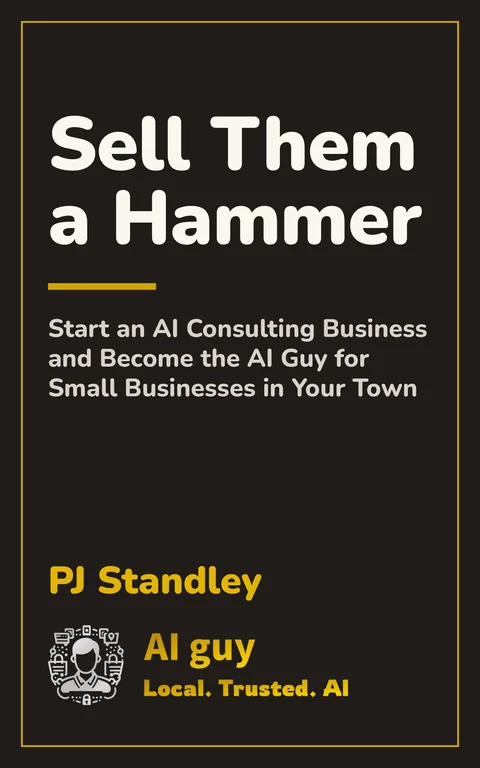
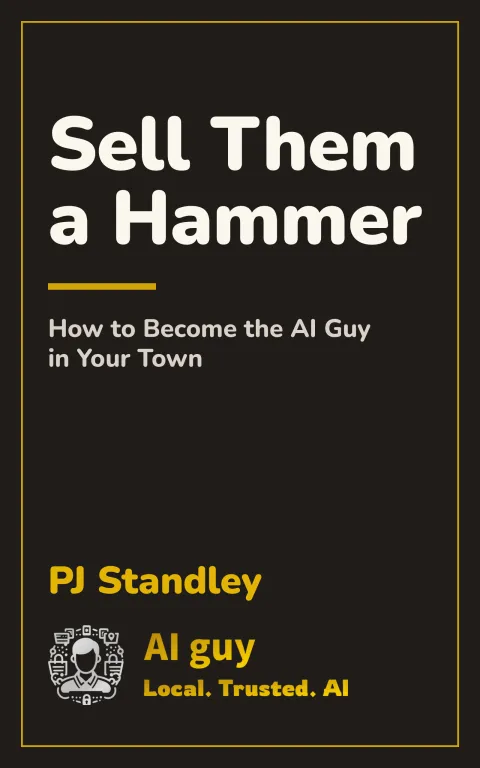
Book sale page: new subtitle (How to Become the AI Guy in Your Town) and refreshed cover images

Changed region(s): [[0.0938, 0.4062, 0.9062, 0.5312]]

diff --git a/sell-them-a-hammer/index.html b/sell-them-a-hammer/index.html
@@ -4,17 +4,17 @@
     <meta charset="utf-8">
     <meta name="viewport" content="width=device-width, initial-scale=1">
     <title>Sell Them a Hammer by PJ Standley | AIssisted Consulting</title>
-    <meta name="description" content="Sell Them a Hammer: Start an AI Consulting Business and Become the AI Guy for Small Businesses in Your Town. Digital book (PDF + EPUB) and 10 editable templates, $29.">
+    <meta name="description" content="Sell Them a Hammer: How to Become the AI Guy in Your Town. Digital book (PDF + EPUB) and 10 editable templates, $29.">
     <meta name="theme-color" content="#06080f">
     <link rel="canonical" href="https://aissistedconsulting.com/sell-them-a-hammer/">
     <meta property="og:type" content="book">
     <meta property="og:title" content="Sell Them a Hammer by PJ Standley | AIssisted Consulting">
-    <meta property="og:description" content="Sell Them a Hammer: Start an AI Consulting Business and Become the AI Guy for Small Businesses in Your Town. Digital book (PDF + EPUB) and 10 editable templates, $29.">
+    <meta property="og:description" content="Sell Them a Hammer: How to Become the AI Guy in Your Town. Digital book (PDF + EPUB) and 10 editable templates, $29.">
     <meta property="og:url" content="https://aissistedconsulting.com/sell-them-a-hammer/">
     <meta property="og:image" content="https://aissistedconsulting.com/assets/book/sell-them-a-hammer-cover-960.jpg">
     <meta name="twitter:card" content="summary_large_image">
     <meta name="twitter:title" content="Sell Them a Hammer by PJ Standley | AIssisted Consulting">
-    <meta name="twitter:description" content="Sell Them a Hammer: Start an AI Consulting Business and Become the AI Guy for Small Businesses in Your Town. Digital book (PDF + EPUB) and 10 editable templates, $29.">
+    <meta name="twitter:description" content="Sell Them a Hammer: How to Become the AI Guy in Your Town. Digital book (PDF + EPUB) and 10 editable templates, $29.">
     <meta name="twitter:image" content="https://aissistedconsulting.com/assets/book/sell-them-a-hammer-cover-960.jpg">
     <link rel="preload" href="/assets/fonts/martian-mono-var.woff2" as="font" type="font/woff2" crossorigin>
     <link rel="stylesheet" href="/assets/site/site.css?v=20260907">
@@ -25,7 +25,7 @@
           "@context": "https://schema.org",
           "@type": "Book",
           "name": "Sell Them a Hammer",
-          "alternativeHeadline": "Start an AI Consulting Business and Become the AI Guy for Small Businesses in Your Town",
+          "alternativeHeadline": "How to Become the AI Guy in Your Town",
           "author": { "@type": "Person", "name": "PJ Standley" },
           "publisher": { "@type": "Organization", "name": "AIssisted Consulting" },
           "bookFormat": "https://schema.org/EBook",
@@ -105,7 +105,7 @@
           <div class="store-copy">
             <p class="kicker">The book</p>
             <h1 class="h1" id="page-title">Sell Them a Hammer</h1>
-            <p class="store-subtitle">Start an AI Consulting Business and Become the AI Guy for Small Businesses in Your Town</p>
+            <p class="store-subtitle">How to Become the AI Guy in Your Town</p>
             <p class="store-author">PJ Standley</p>
             <div class="store-blurb">
               <p>Small business owners are standing in a flood of AI headlines. They don&rsquo;t need more noise. They need somebody local they trust to hand them something solid and show them how to hold it.</p>
